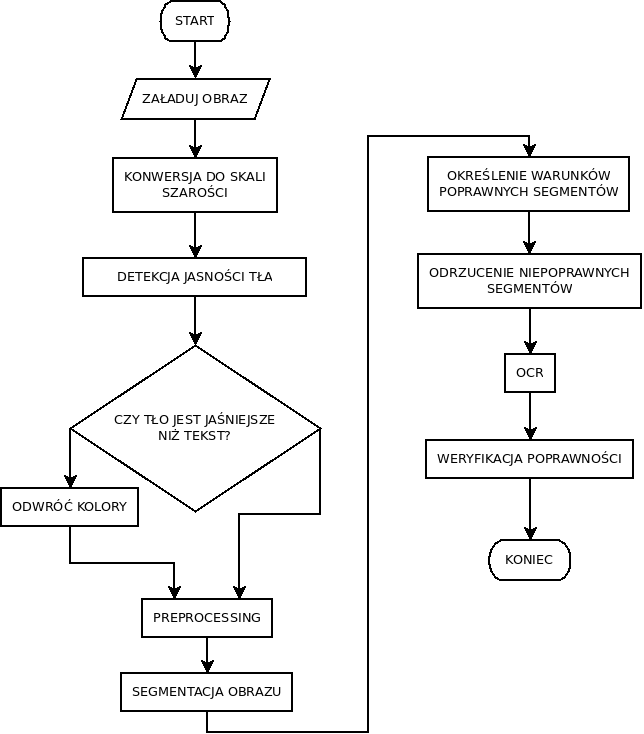
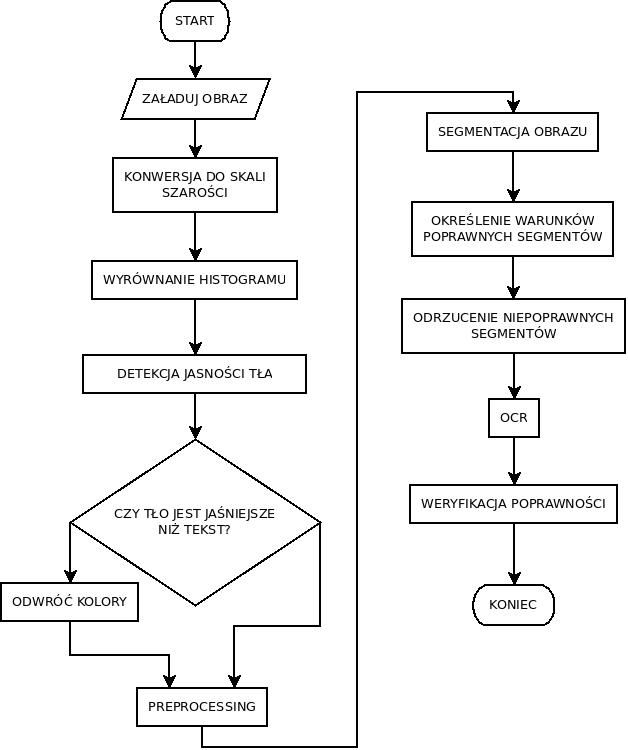
doc: chapter "researches", minors

diff --git a/doc/chapter_plates.tex b/doc/chapter_plates.tex
@@ -5,7 +5,7 @@ Ze względu na różnorodność formatów tablic rejestracyjnych, jakie mogą wy
 \paragraph{}
 Obrazy tablic rejestracyjnych, ze względu na warunki w jakich są wykonywane, nie zawierają jedynie tekstu, który jest łatwy do analizy. Obrazy często zawierają artefakty, tablice mogą być zanieczyszczone, lub ze względu na warunki atmosferyczne, obraz może być niejednolicie oświetlony. Opisałem problemy, z jakimi spotkałem się, analizując zestaw danych testowych, wraz z proponowanymi przeze mnie możliwościami rozwiązania problemów.\\
 W tym rozdziale będę stosował wykorzystywał formę zapisu wzorów matematycznych stosowaną w języku programowania C++.
-\subsection{Różne kolory tablic rejestracyjnych}
+\subsection{Różne kolory tablic rejestracyjnych}\label{ssec:different_backgrounds}
 Algorytmy segmentacji tablic rejestracyjnych które zaprezentuję w dalszej części pracy, wymagają, aby tło tablic rejestracyjnych było jaśniejsze od tekstu. Dlatego opracowałem algorytm, który wykrywa odwrotną sytuację, i w razie potrzeby, odwróci kolory obrazu.\\
 Pierwszym pomysłem było zastosowanie lokalnego progowania, a następnie policzenie czarnych oraz białych pikseli, i w zależności od tego, który kolor występuje częściej, określić tło tablicy rejestracyjnej. Metoda ta okazała się w większości przypadków skuteczna. Algorytm nie zwracał jednak poprawnych rezultatów w przypadku, gdy tablica rejestracyjna wykonana była pod kątem, i nie można było wykadrować obrazu w taki sposób, aby pozbyć się nieporządanych pikseli. Rysunek~\ref{fig:detect_bg_bad} przedstawia ten problem. Tablica rejestracyjna zajmuje większą część obrazu, jednak pomimo tego, została sklasyfikowana przez algorytm jako tablica z czarnym tłem. Wynika to z faktu, iż na tablicy pozostały znaki, które również zajmują znaczącą powierzchnię obrazu. Następnie spróbowałem zastosować operację zamknięcia regionu, która poprawnie usunęła znaki z obrazu. Nie zadziałała jednak w przypadku białych znaków na czarnym tle. \\
 Zamiast operacji morfologicznej, zastosowałem rozmycie medianowe, które dało poprawny efekt zarówno dla czarnych znaków na białym tle, jak również dla białych znaków na czarnym tle. Na rysunku~\ref{fig:detect_bg_ok} przedstawiony został wynik eksperymentu dla obrazu wejściowego przedstawionego na rysunku~\ref{fig:detect_bg_bad}.
@@ -65,10 +65,10 @@ Poszczególne kroki działania algorytmu zostały przedstawione na rysunku~\ref{
 \end{figure}
 
 
-\subsection{Różne formaty zapisu danych}
+\subsection{Różne formaty zapisu danych}\label{ssec:different_formats}
 Numer rejestracyjny pojazdu może być zapisany jako jedna, lub jako dwie linie tekstu. Założeniem algorytmu rozpoznawania tablic rejestracyjnych jest możliwość rozpoznania obydwóch formatów zapisu, dlatego przed przystąpieniem do dalszej analizy, należy określić liczbę linii tekstu. Znajomość liczby linii jest przydatna podczas oceny ostatecznego rozwiązania segmentacji obrazu, ponieważ znana jest wtedy przybliżona lokalizacja liter. Poniżej przedstawiam propozycję dwóch rozwiązań problemu detekcji liczby linii wykorzystanych do zapisu numeru rejestracyjnego.
 \paragraph{Metoda rzutu jasności obrazu}\mbox{}\\
-Algorytm rzutu jasności obrazu opisywany był w podrozdziale~\ref{ssection:rzut_jasnosci}. Zauważyłem, że algorytm ten może również zostać wykorzystany do określenia liczby linii tekstu, wykorzystując do tego tylko poziomy rzut jasności dla obrazu. Na rysunku~\ref{fig:rzut_liczba_linii} zamieszczone zostały dwa obrazy przedstawiające rzuty jasności dla tablicy rejestracyjnej zawierającej jedną, oraz dwie linie tekstu. Można zauważyć, że w miejscach, gdzie nie znajduje się tekst, wykres rzutu jasności osiąga wyraźne ekstremum. Dla jednej linii tekstu, wykres rzutu jasności powinien zawierać tylko dwa takie ekstrema (nad, oraz pod tekstem), natomiast dla tablicy zawierającej dwie line tekstu, wystąpić powinny trzy ekstrema (dodatkowe ekstremum znajdujące się pomiędzy dwoma wierszami tekstu).\\
+Algorytm rzutu jasności obrazu opisywany był w podrozdziale~\ref{ssec:rzut_jasnosci}. Zauważyłem, że algorytm ten może również zostać wykorzystany do określenia liczby linii tekstu, wykorzystując do tego tylko poziomy rzut jasności dla obrazu. Na rysunku~\ref{fig:rzut_liczba_linii} zamieszczone zostały dwa obrazy przedstawiające rzuty jasności dla tablicy rejestracyjnej zawierającej jedną, oraz dwie linie tekstu. Można zauważyć, że w miejscach, gdzie nie znajduje się tekst, wykres rzutu jasności osiąga wyraźne ekstremum. Dla jednej linii tekstu, wykres rzutu jasności powinien zawierać tylko dwa takie ekstrema (nad, oraz pod tekstem), natomiast dla tablicy zawierającej dwie line tekstu, wystąpić powinny trzy ekstrema (dodatkowe ekstremum znajdujące się pomiędzy dwoma wierszami tekstu).\\
 Algorytm wyszukuje trzy największe maksimum lokalne na wykresie rzutu jasności, przy założeniu, że nie mogą znajdować się w odległości mniejszej niż $\frac{1}{3}$ wysokości obrazu (aby uniknąć znalezienia dwóch ekstremum należących do jednej białej linii). Na końcu sprawdzane były dwa warunki:
 \begin{itemize}
   \item znalezione wartości maksymalne były porównywane z odchyleniem standardowym wyznaczonym z wartości rzutu jasności, i jeśli ich różnica od wartości średniej była większa niż wyznaczone odchylenie, warunek był spełniony,
@@ -130,7 +130,7 @@ Rysunek~\ref{fig:apriori_liczba_linii} przedstawia tablice rejestracyjne zawiera
   \label{fig:apriori_liczba_linii}
 \end{figure}
 
-\subsection{Dodatkowe elementy na tablicach}
+\subsection{Dodatkowe elementy na tablicach}\label{ssec:additional_elements}
 Tablice rejestracyjne zawierają bardzo często elementy, które nie są elementami numerów rejestracyjnych, ale mogą zostać sklasyfikowane jako element numeru, podczas procesu segmentacji. Poniżej przedstawiam metody, jakie zastosowałem w celu filtracji elementów nieporządanych. Weryfikacji podlega każdy znaleziony segment, sprawdzane są wszystkie poniższe warunki.
 \paragraph{Stosunek szerokości do wysokości znaku}\mbox{}\\
 Zauważyłem, że w każdym znaku pojawiającym się w numerze rejestracyjnym, szerokość znaku jest mniejsza od jego wysokości. Warunek ten spełniony był dla każdej czcionki pojawiającej się w dostępnych danych, dlatego mogłem wykluczyć wszystkie segmenty, które nie spełniają warunku:

diff --git a/doc/chapter_researches.tex b/doc/chapter_researches.tex
@@ -1,0 +1,51 @@
+\section{Wykonanie badań metod segmentacji obrazu}
+Przeprowadzone przeze mnie badania miały na celu porównanie metod segmentacji obrazu, a także sprawdzenie, jak dobór parametrów dla poszczególnych metod wpływa na jakość uzyskiwanego rezultatu.
+
+\subsection{Narzędzia implementacja algorytmów}
+Opisane niżej algorytmy segmentacji obrazu zostały napisane w języku C++ i skompilowane w systemie operacyjnym Linux. Implementacja jest jednak niezależna od systemu operacyjnego, i dzięki uniwersalnemu systemowi budowania CMake, z powodzeniem można w łatwy sposób skompilować i uruchamiać algorytmy pod innymi popularnymi systemami operacyjnymi, takimi jak Windows czy Mac OSX.\\
+Ze względu na wykorzystanie w algorytmach segmentacji podstawowych operacji przetwarzania obrazu (takich jak dodawanie obrazu, operacje morfologiczne), zdecydowałem się użyć gotowej biblioteki OpenCV, udostępniającej wiele funkcji pomocnych przy implementacji złożonych algorytmów przetwarzania obrazów.\\
+Do rozpoznawania tekstu wykorzystałem moduł \textit{text} z biblioteki OpenCV, który napisany jest w oparciu o bibliotekę Tesseract. Biblioteka Tesseract jest otwartym oprogramowaniem rozwijanym od 1985 roku. Służy do rozpoznawania znaków w obrazach cyfrowych.
+\subsection{Aplikacja testująca}
+Podczas implementacji algorytmów, bardzo często musiałem zmieniać wartości ich parametrów. Każdorazowe zmiany w kodzie źródłowym i ponowna kompilacja algorytmów była czasochłonna, dlatego napisałem aplikację, która umożliwi mi zmianę parametrów algorytmów bez konieczności zmieniania wartości w kodzie źródłowym, ale podczas działania aplikacji.\\
+Następnie do aplikacji dodałem możliwość uruchamiania testów automatycznych, których celem była szybka weryfikacja większej ilości danych testowych na raz, zwracając procentową wartość poprawnie rozpoznanych obrazów. Na rysunku~\ref{fig:tuner_screenshot} zamieszczone zostało okno główne aplikacji testującej.
+
+\begin{figure}
+  \centering
+  \includegraphics[width=1\textwidth]{img/tuner-screenshot}
+  \caption{Widok okna głównego aplikacji do testowania i doboru parametrów algorytmów}
+  \label{fig:tuner_screenshot}
+\end{figure}
+\subsection{Algorytm rozpoznawania znaków na tablicy rejestracyjnej}
+Podczas testowania różnych metod segmentacji obrazów, korzystałem zawsze z takiego algorytmu. Schemat blokowy tego algorytmu został przedstawiony na rysunku~\ref{fig:main_flowchart}. Poniżej omówiłem poszczególne bloki schematu.
+\begin{enumerate}
+  \item \textbf{Konwersja do skali szarości}\\
+    Wszystkie operacje, jakich używam w swoim programie, wykorzystują obrazy w skali szarości, dlatego pierwszą czynnością, jaką wykonuje program, jest zmiana obrazu wejściowego na obraz monochromatyczny (jeśli zachodzi taka potrzeba).
+  \item \textbf{Wyrównanie histogramu}\\
+    Wyrównanie histogramu poprawia kontrast w obrazie, dzięki czemu różnice jasności pomiędzy tłem i znakami są wyraźniejsze, dzięki temu kolejne operacje mogą operować na szerszym zakresie wartości jasności.
+  \item \textbf{Detekcja jasności tła i odwrócenie kolorów} \\
+    Wszystkie metody segmentacji jakich użyłem zakładają, że tło obrazu jest jaśniejsze od znaków. Dlatego przed wykonywaniem operacji segmentacji następuje detekcja jasności tła, i jeśli zachodzi taka potrzeba, odwrócenie kolorów. Metodę użytą w tej operacji opisałem szczegółowo w akapicie~\ref{ssec:different_backgrounds}.
+  \item \textbf{Preprocessing}\\
+    Prawie każda metoda segmentacji wymaga wcześniejszego przygotowania obrazu w taki sposób, aby rezultaty były jak najlepsze. W niektórych przypadkach jest to rozmycie obrazu, dla innych metod są to operacje morfologiczne czy operacje działające na histogramie obrazu (np. wyrównanie histogramu).
+  \item \textbf{Segmentacja obrazu}\\
+    Blok ten reprezentuje implementację jednej metody segmentacji obrazu. Wszystkie badane metody segmentacji obrazu zostały wymienione i opisane w dalszej części tego rozdziału.
+    \item \textbf{Określenie warunków poprawnych segmentów}\\
+      Na podstawie wyników segmentacji algorytm definiuje kryteria, jakie powinien spełnić segment, aby zostać sklasyfikowany jako znak. Metody określania warunków zostały opisane w podpunkcie~\ref{ssec:different_formats} i~\ref{ssec:additional_elements}.
+    \item \textbf{Odrzucenie niepoprawnych segmentów}\\
+      Na tym etapie algorytm sprawdza wszystkie warunki określone w poprzednim punkcie, i usuwa ze zbioru segmentów te, które nie spełniają określonych wcześniej kryteriów.
+    \item \textbf{OCR}\\
+      Obraz jest kadrowany dla każdego segmentu osobno. Seria wykadrowanych obrazów przekazywana jest do algorytmu rozpoznawania znaków, którego zadaniem jest zwrócenie jednej wartości znaku, który zapisany jest w obrazie.
+    \item \textbf{Weryfikacja poprawności}\\
+      Ostatni etap nie jest już elementem algorytmu rozpoznawania tablic rejestracyjnych, ale jest on użyty w mojej aplikacji w celu weryfikacji poprawności operacji segmentacji oraz rozpoznawania znaków. Program sprawdza, czy ciąg znaków zwrócony w poprzednim podpunkcie jest taki sam, jak oczekiwany. Wartości oczekiwane wyznaczane były przez człowieka patrzącego na obraz.
+\end{enumerate}
+Poszczególne uruchomienia wyróżniały się tylko implementacją bloków \textbf{preprocessing} oraz \textbf{segmentacja obrazu}.
+\begin{figure}
+  \centering
+  \includegraphics[width=0.98\textwidth]{img/main-flowchart}
+  \caption{Schemat blokowy algorytmu rozpoznawania tablic rejestracyjnych}
+  \label{fig:main_flowchart}
+\end{figure}
+
+\subsection{Porównywane metody segmentacji obrazu}
+Poniżej wymieniłem oraz scharakteryzowałem metody segmentacji, które porównywałem na zestawie obrazów tablic rejestracyjnych. Ponadto omówiłem też metody wstępnego przetwarzania obrazu, które dla danej metody segmentacji poprawiają rezultaty. Przedstawiłem też parametry poszczególnych metod, jakie mogą wpływać na działanie algorytmu.
+
+

diff --git a/doc/main_document.tex b/doc/main_document.tex
@@ -108,6 +108,8 @@
 \newpage
 \include{chapter_plates}
 \newpage
+\include{chapter_researches}
+\newpage
 \cite{foo}
 
 \bibliographystyle{plain}
